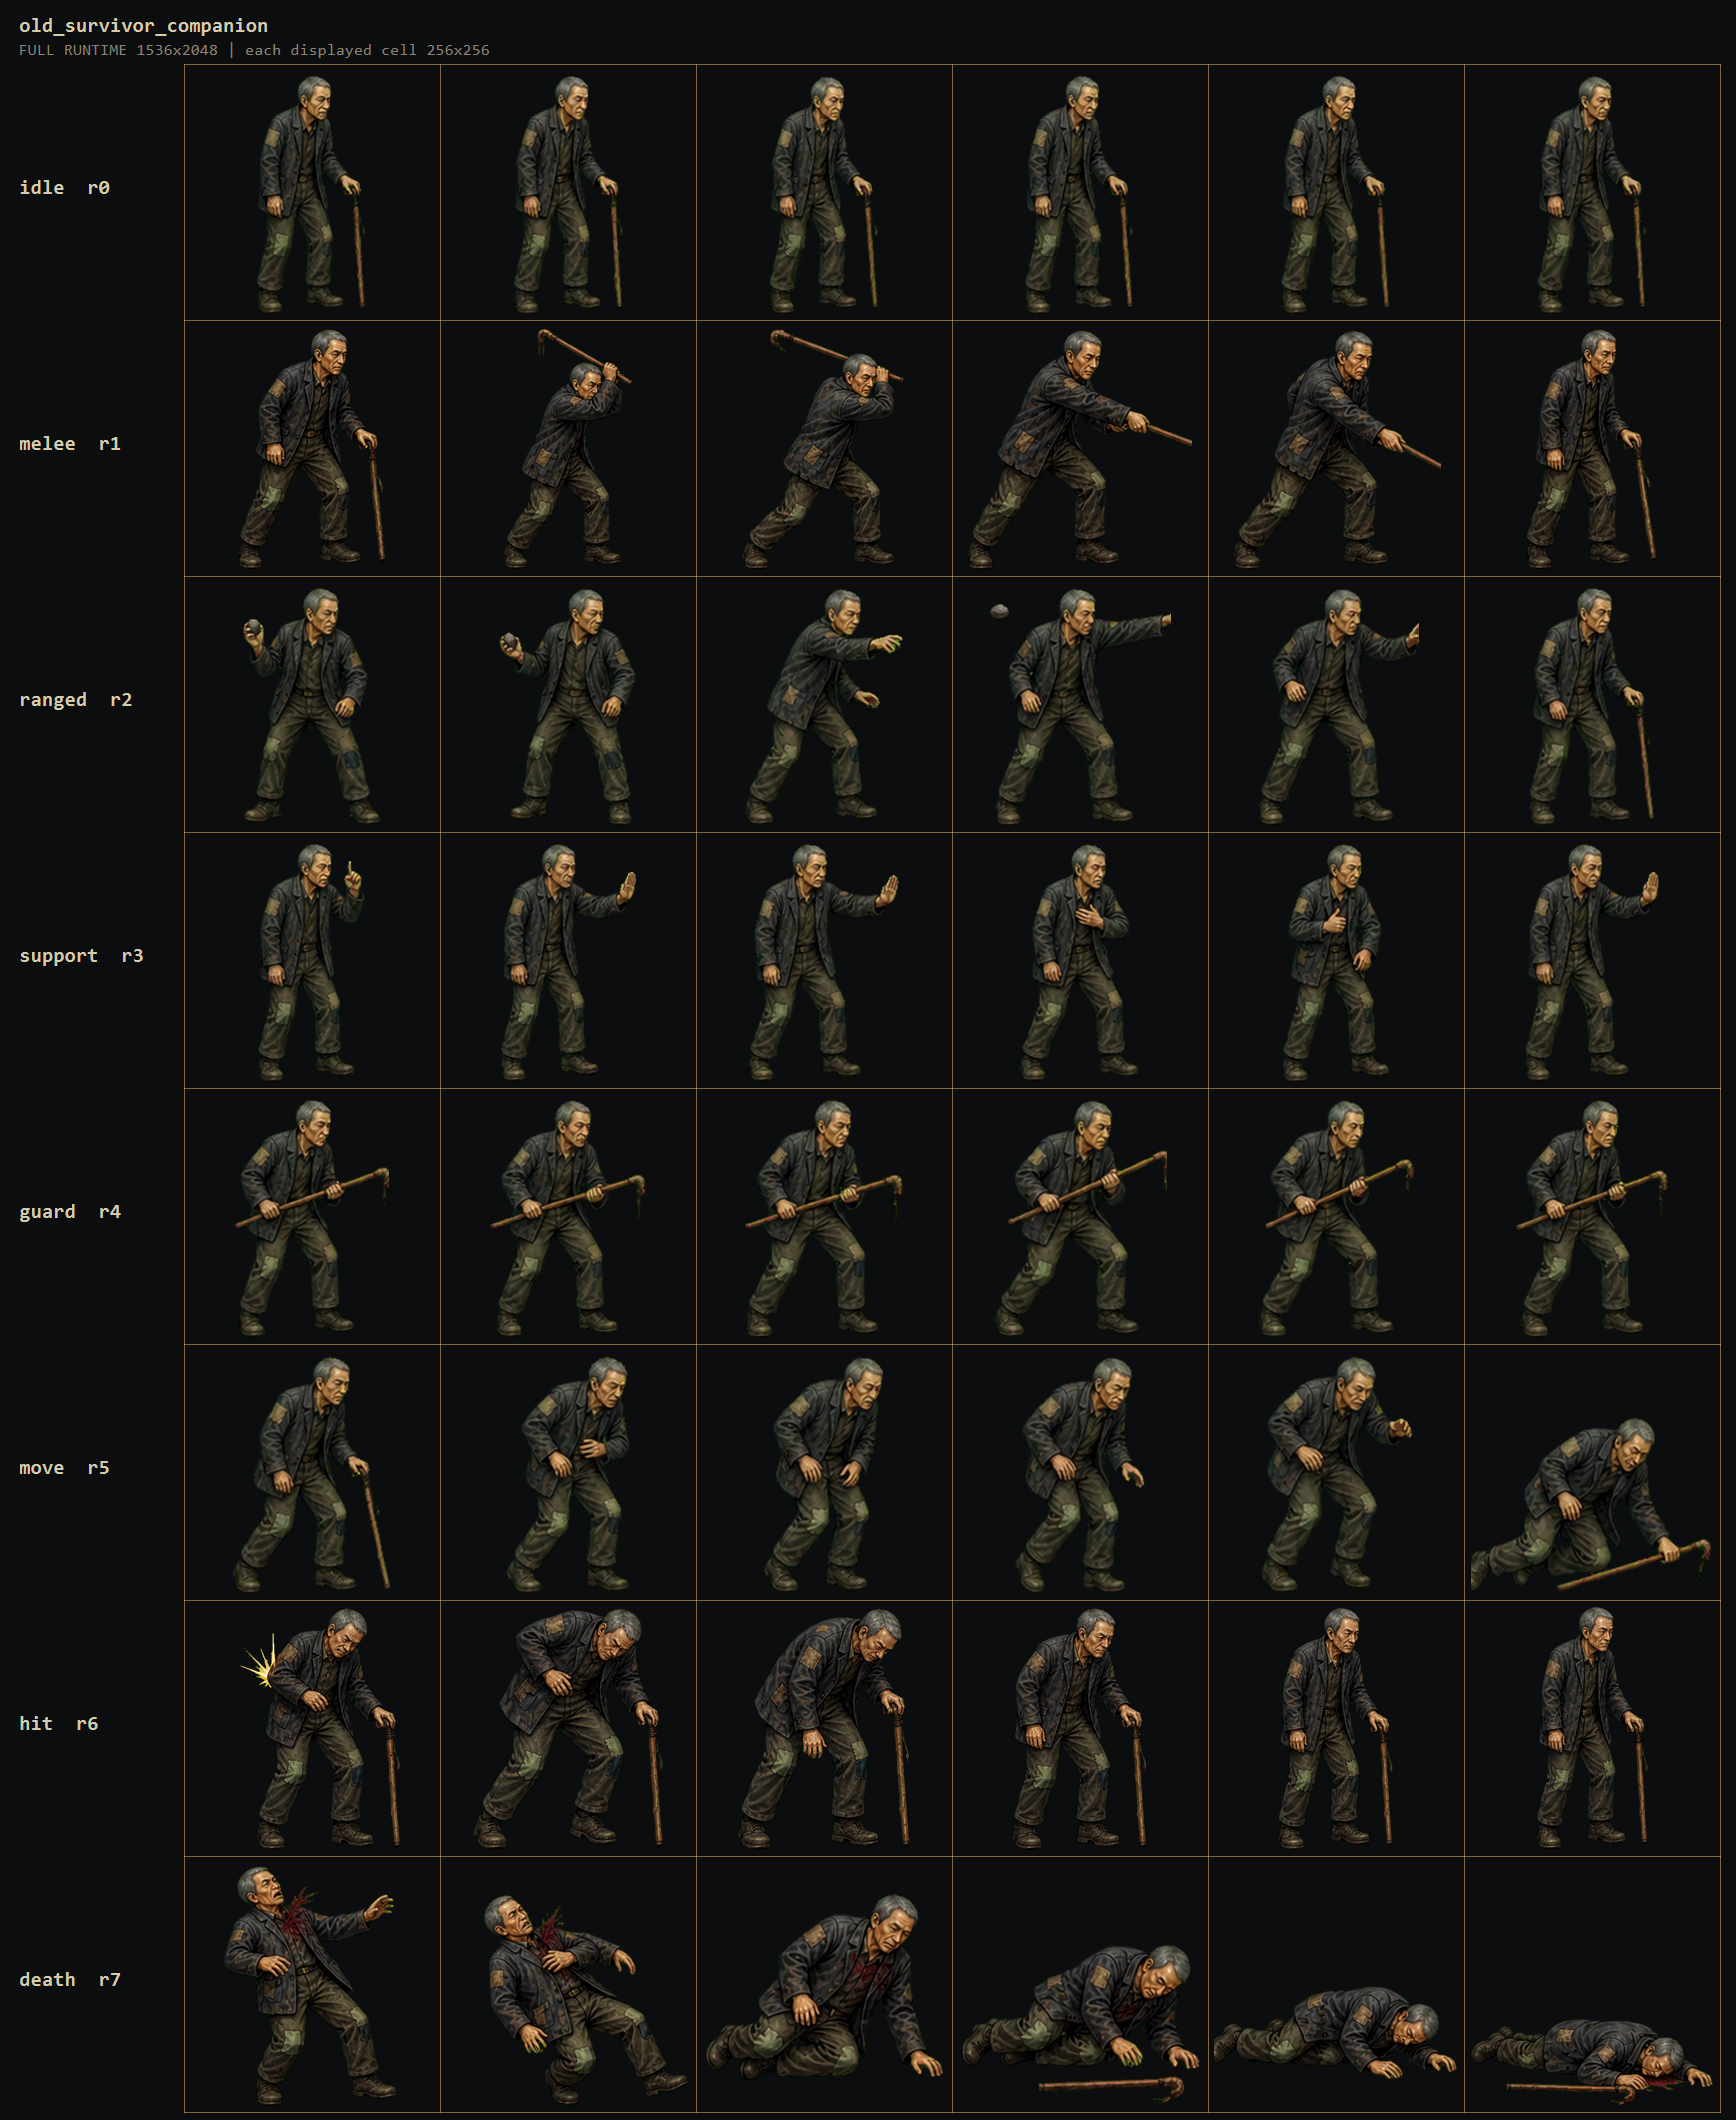
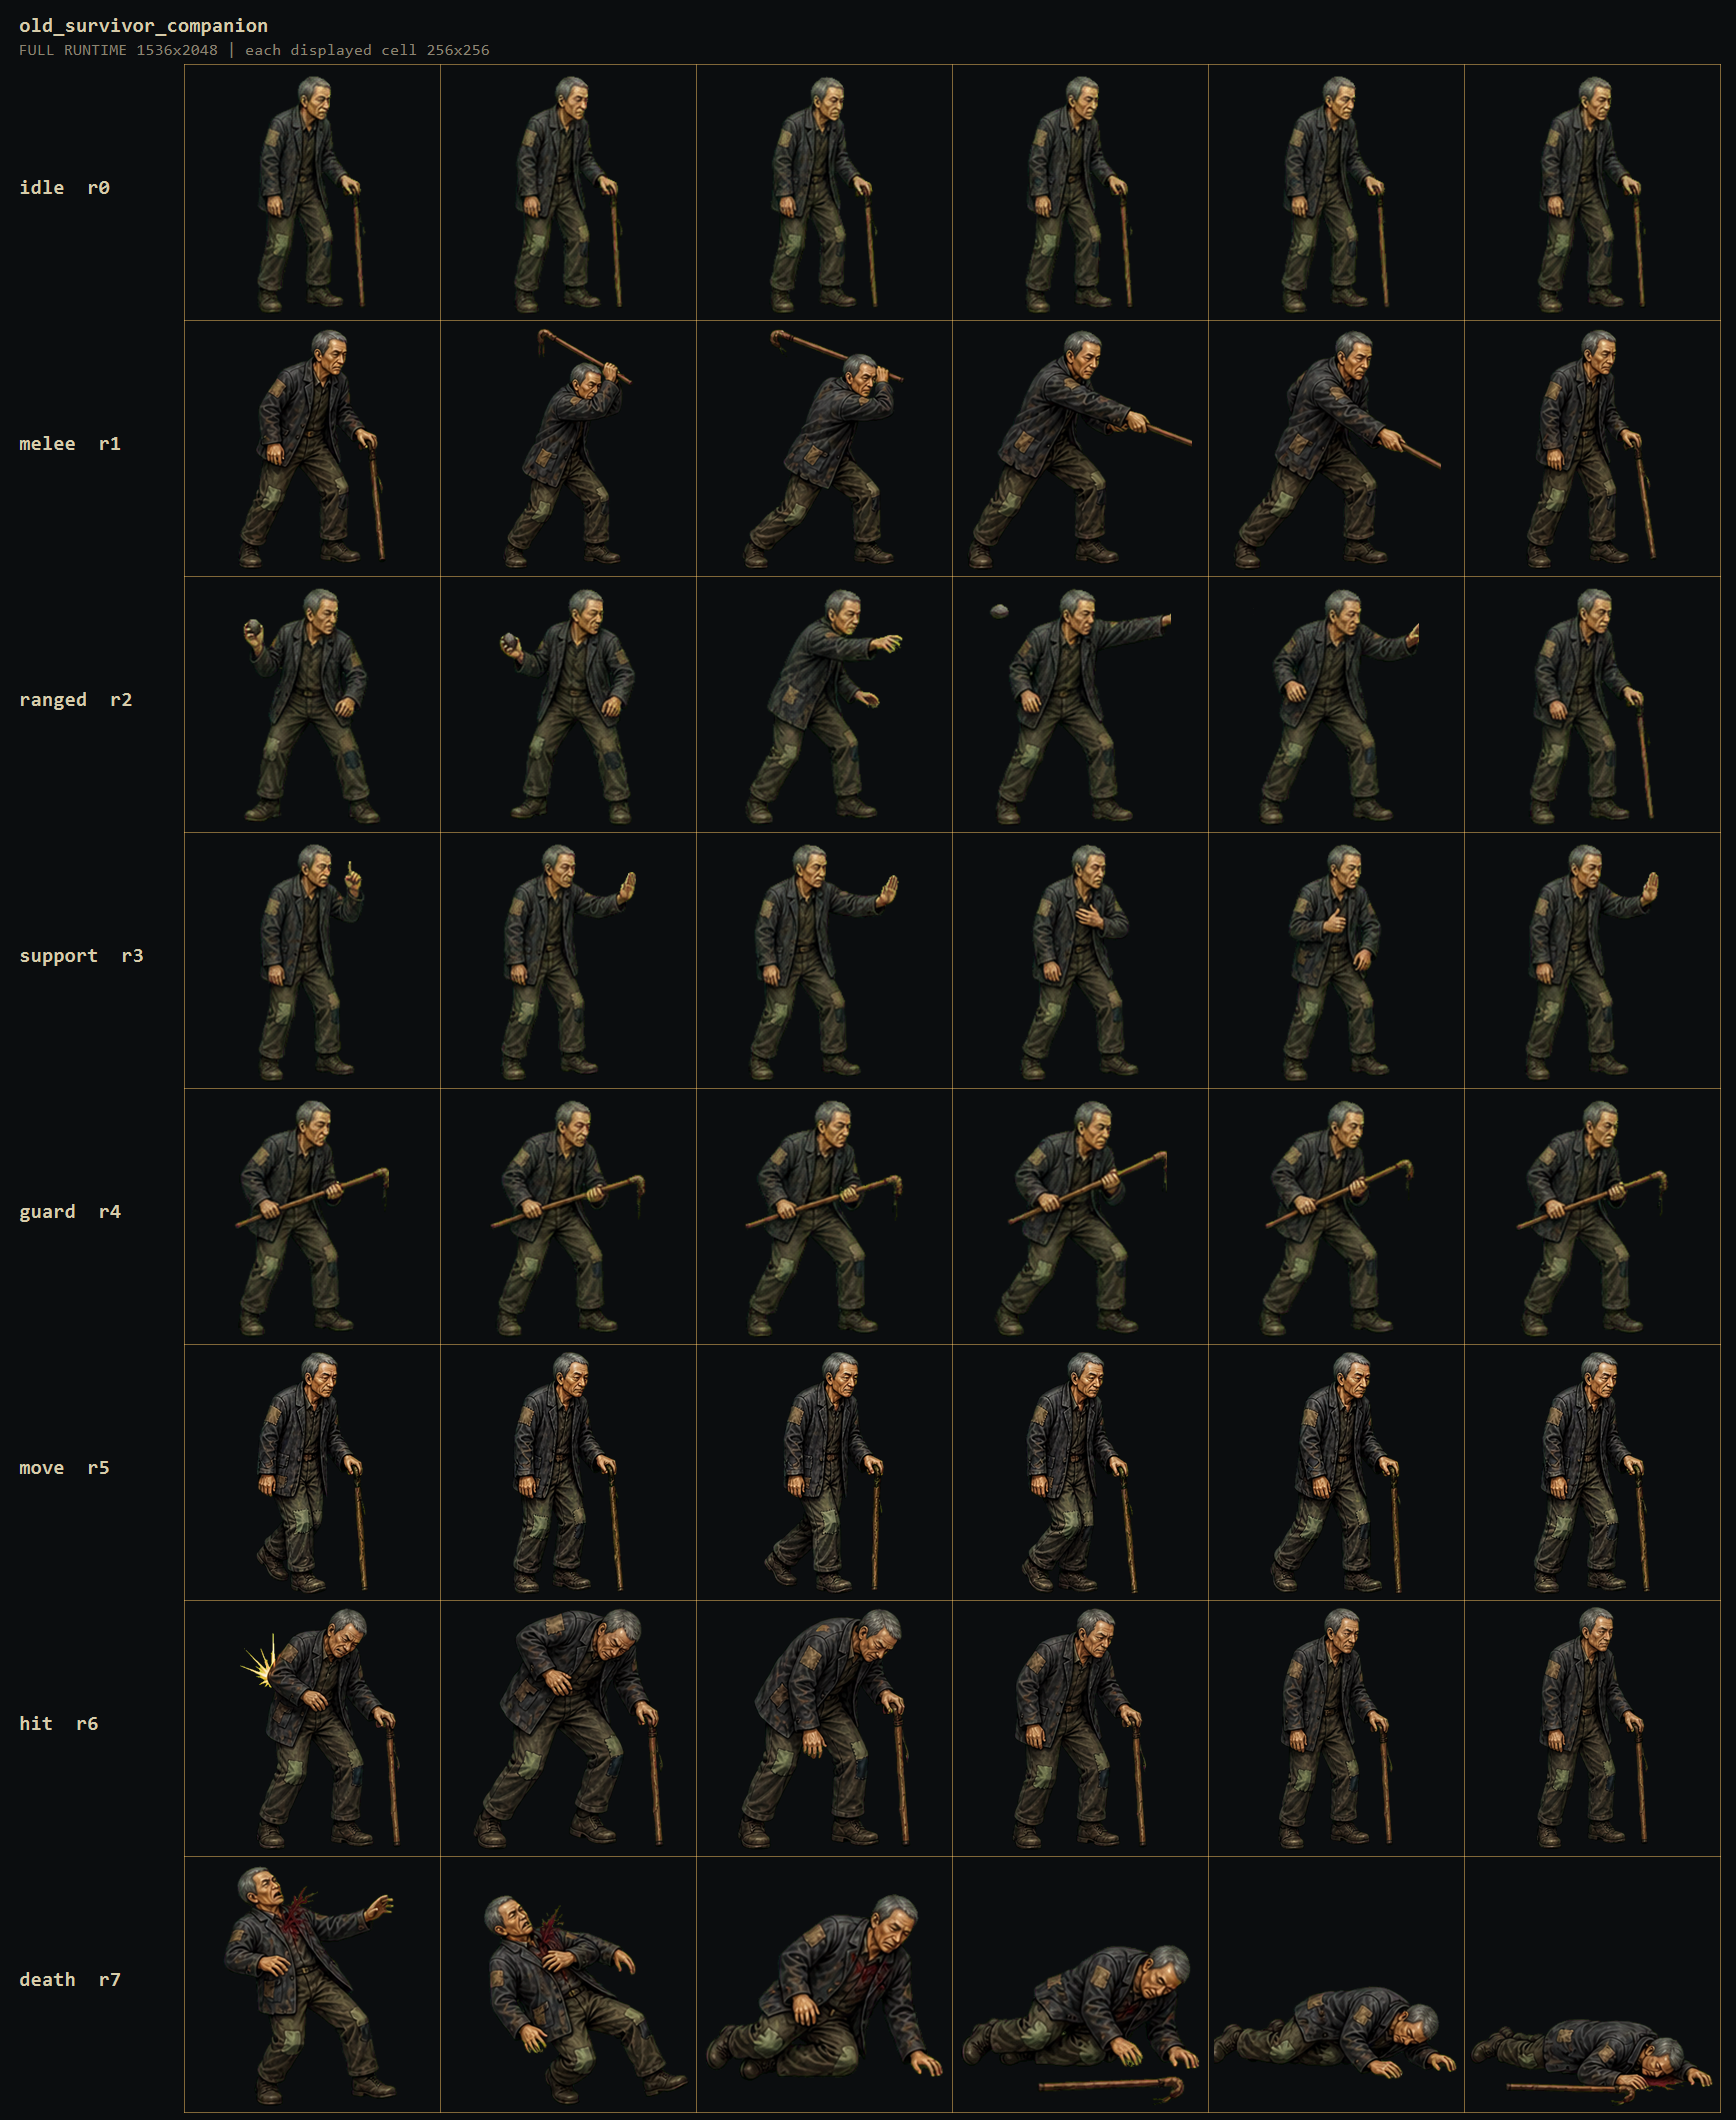
feat(assets): correct companion movement rows

diff --git a/docs/analysis/COMPANION_MOTION_QA.md b/docs/analysis/COMPANION_MOTION_QA.md
@@ -10,6 +10,8 @@
 
 수동 판정은 contact sheet에서 동료별 identity, 무기, 8개 의미 행, 6프레임 연속성, 잘림·슬라이드·잘못된 행 재사용 여부를 직접 관찰한 결과다. 자동 verifier는 이 판정을 만들지 않으며, 별도 관찰 데이터의 ID/해시를 manifest, loadout, runtime PNG, recipe와 교차 검증한다.
 
+2026-08-08 선택적 재검토에서는 `old_survivor_companion`과 `sous_chef_companion`의 이동 r5만 새 소스로 교체했다. original 해상도 runtime·개별 확대 보드·20종 contact sheet를 대조해 노년 생존자의 지팡이 보조 교대 보행과 부주방장의 낮게 든 식칼 교대 보행이 각각 6프레임으로 이어지고, 다른 188개 비대상 행은 기준선과 동일함을 확인했다.
+
 ## 60개 스킬 수동 판정
 
 각 셀의 세 스킬은 모두 개별 `PASS`다. 상세 관찰 문장은 수동 관찰 원본에 스킬 ID별로 보존한다.
@@ -68,7 +70,7 @@
 - 스킬: 60개 고유 ID, `COMBAT_SKILLS.motionKey`와 8행 의미 계약 일치
 - PNG: 20개 모두 1536×2048, 8-bit RGBA, 6×8, 셀 256×256
 - 셀: 960/960 populated, 960/960 transparent corners
-- strict chroma: `opaqueGreen=0`, `fringeGreen=0`, `hiddenRgb=0`, `removedComponents=0`, `staleAllowlist=0`
+- strict chroma: 새 alpha 2종과 runtime r5 2행에서 각각 `opaqueGreen=0`, `fringeGreen=0`, `hiddenRgb=0`, `boundaryGreen=0`, `removedComponents=0`, `staleAllowlist=0`
 - 수동 증거: 스킬 60/60 PASS, hit/death 40/40 PASS
 
 ## 종합 판정
